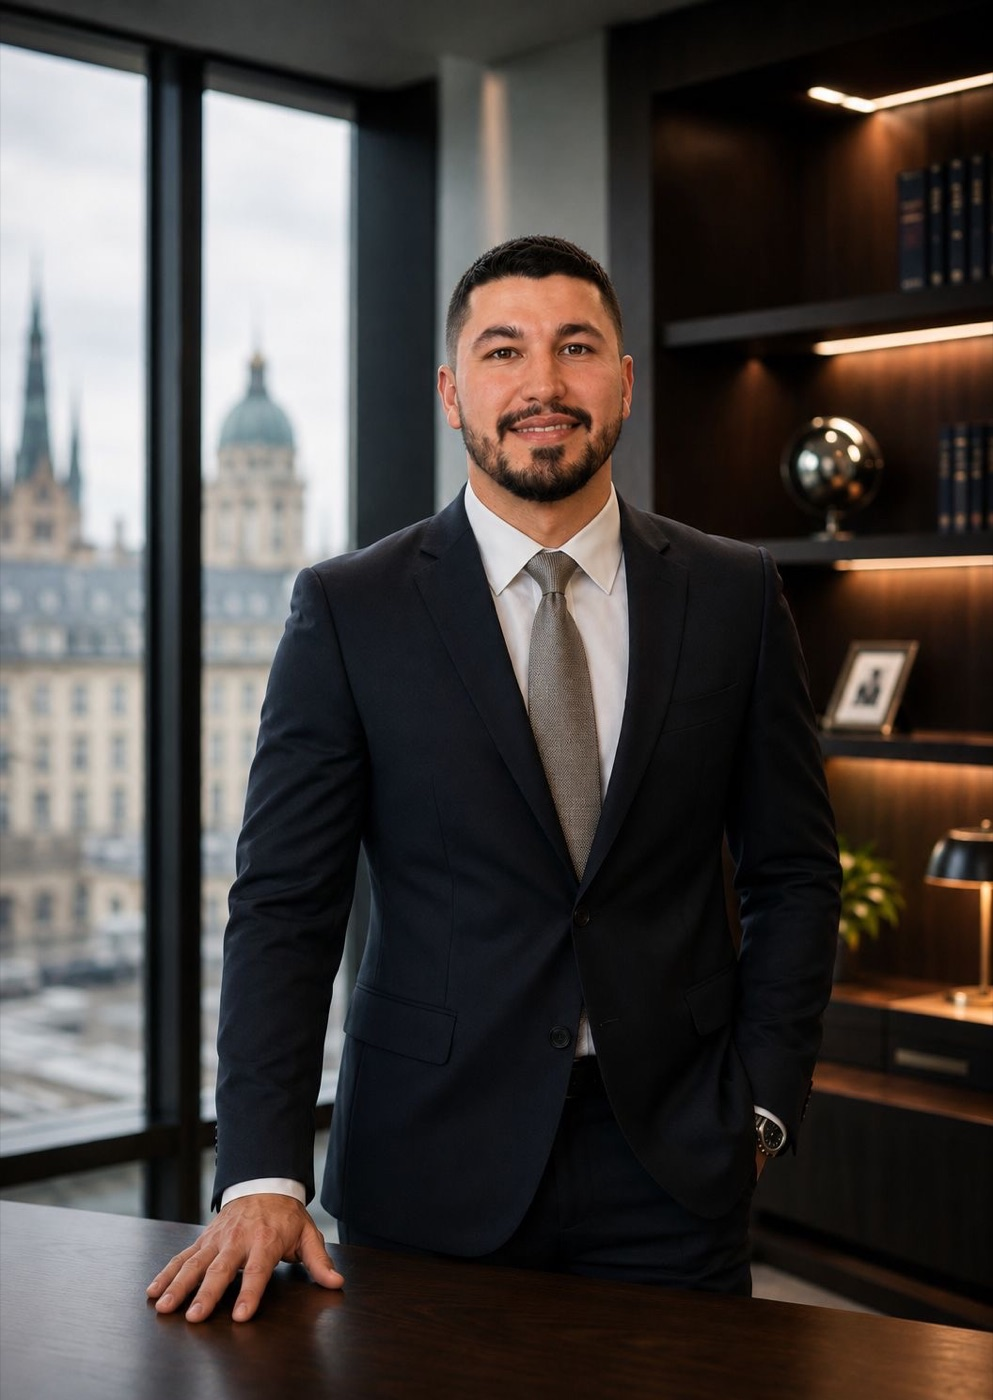
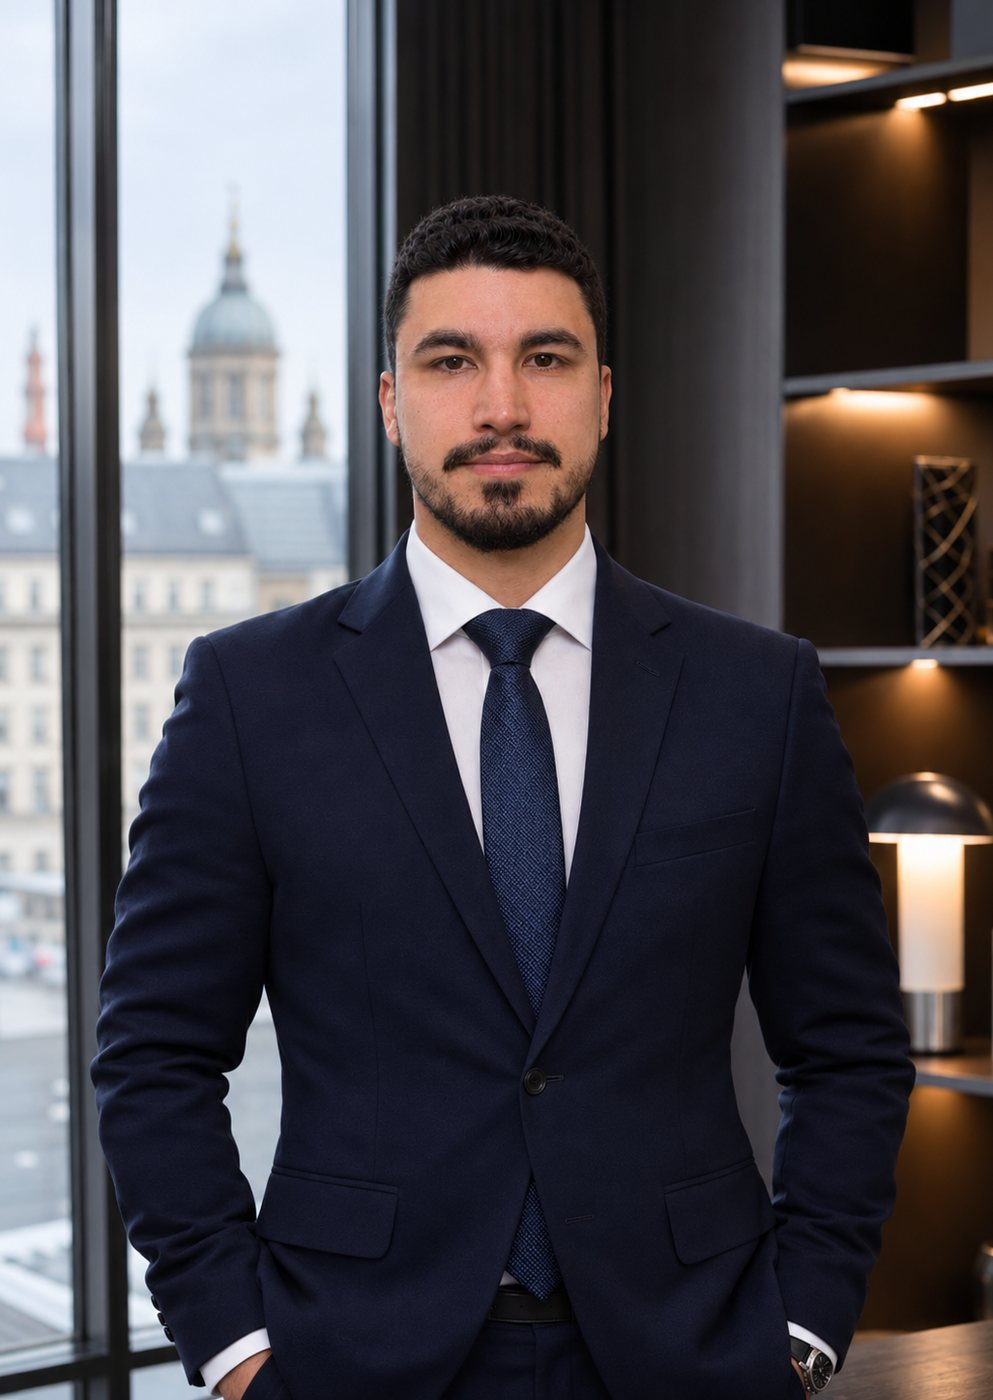
Update Carlos team photo and founder image in structured data
Claude-Session: https://claude.ai/code/session_01W1Vrh341q2hED3hMNqgGsY

diff --git a/de/index.html b/de/index.html
@@ -101,6 +101,7 @@
           "founder": {
             "@type": "Person",
             "name": "Carlos Andrés Richter Moreno",
+            "image": "https://crd-berlin.de/assets/images/carlos-richter-moreno.jpg",
             "jobTitle": "Gründer & Inhaber",
             "sameAs": [
               "https://www.linkedin.com/in/carlos-richter-moreno/"
@@ -407,8 +408,8 @@ TEAM
             </article>
             <article class="team-card">
                 <picture>
-                    <source srcset="../assets/images/co-founder.webp" type="image/webp">
-                    <img src="../assets/images/co-founder.jpg" alt="Carlos, founder of CRD Berlin" loading="lazy" decoding="async" width="993" height="1400">
+                    <source srcset="../assets/images/co-founder.webp?v=2" type="image/webp">
+                    <img src="../assets/images/co-founder.jpg?v=2" alt="Carlos, founder of CRD Berlin" loading="lazy" decoding="async" width="993" height="1400">
                 </picture>
                 <div class="team-card-copy">
                     <h3>Carlos</h3>

diff --git a/es/index.html b/es/index.html
@@ -101,6 +101,7 @@
           "founder": {
             "@type": "Person",
             "name": "Carlos Andrés Richter Moreno",
+            "image": "https://crd-berlin.de/assets/images/carlos-richter-moreno.jpg",
             "jobTitle": "Gründer & Inhaber",
             "sameAs": [
               "https://www.linkedin.com/in/carlos-richter-moreno/"
@@ -407,8 +408,8 @@ TEAM
             </article>
             <article class="team-card">
                 <picture>
-                    <source srcset="../assets/images/co-founder.webp" type="image/webp">
-                    <img src="../assets/images/co-founder.jpg" alt="Carlos, founder of CRD Berlin" loading="lazy" decoding="async" width="993" height="1400">
+                    <source srcset="../assets/images/co-founder.webp?v=2" type="image/webp">
+                    <img src="../assets/images/co-founder.jpg?v=2" alt="Carlos, founder of CRD Berlin" loading="lazy" decoding="async" width="993" height="1400">
                 </picture>
                 <div class="team-card-copy">
                     <h3>Carlos</h3>

diff --git a/index.html b/index.html
@@ -101,6 +101,7 @@
           "founder": {
             "@type": "Person",
             "name": "Carlos Andrés Richter Moreno",
+            "image": "https://crd-berlin.de/assets/images/carlos-richter-moreno.jpg",
             "jobTitle": "Gründer & Inhaber",
             "sameAs": [
               "https://www.linkedin.com/in/carlos-richter-moreno/"
@@ -415,8 +416,8 @@ TEAM
             </article>
             <article class="team-card">
                 <picture>
-                    <source srcset="assets/images/co-founder.webp" type="image/webp">
-                    <img src="assets/images/co-founder.jpg" alt="Carlos, founder of CRD Berlin" loading="lazy" decoding="async" width="993" height="1400">
+                    <source srcset="assets/images/co-founder.webp?v=2" type="image/webp">
+                    <img src="assets/images/co-founder.jpg?v=2" alt="Carlos, founder of CRD Berlin" loading="lazy" decoding="async" width="993" height="1400">
                 </picture>
                 <div class="team-card-copy">
                     <h3>Carlos</h3>

diff --git a/tools/build_languages.py b/tools/build_languages.py
@@ -102,6 +102,7 @@ def structured_data(lang, tx):
                 "founder": {
                     "@type": "Person",
                     "name": "Carlos Andrés Richter Moreno",
+                    "image": SITE + "/assets/images/carlos-richter-moreno.jpg",
                     "jobTitle": "Gründer & Inhaber",
                     "sameAs": ["https://www.linkedin.com/in/carlos-richter-moreno/"],
                 },
